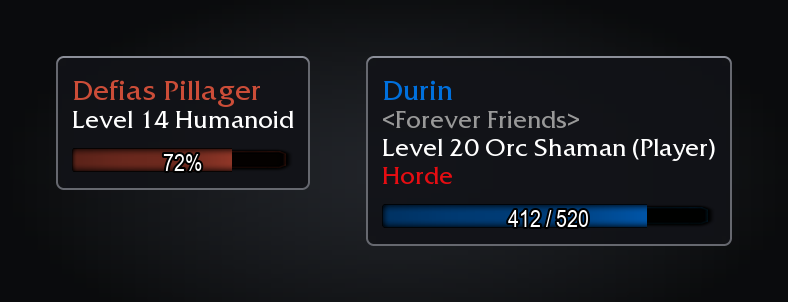
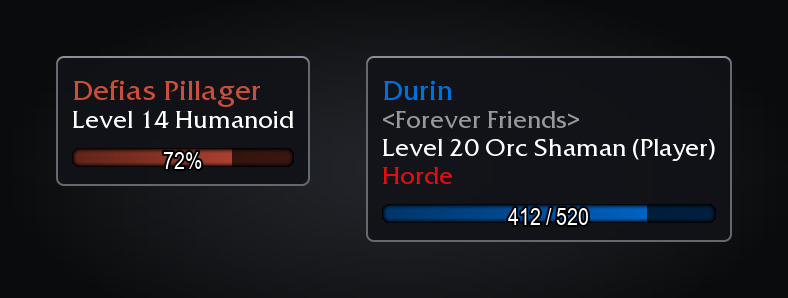
fix: draw the tooltip bars at the cooldown bar's native height (#354)
## Summary
The tooltip health and power bars squashed common-stat-bar-white and
common-stat-bar-BG into 12 and 8 high. Both bars are now 10 high and
draw UI-HUD-CoolDownManager-Bar at its native height, with the same
atlas at a darker shade as the track.

Ships as 2.2.2. Follows the owner's no-stretch rule (forever-core
WFA-27).

## Test plan
- [x] Gate locally, without the Sloppatrol step
- [x] Rendered before/after compared
- [ ] In game: `/reload` and check the bars

🤖 Generated with [Claude Code](https://claude.com/claude-code)

https://claude.ai/code/session_01UkMWrwndqHjjTAo7oE9YTP

diff --git a/tools/screenshots.py b/tools/screenshots.py
@@ -735,8 +735,8 @@ def demo(ui):
 
 
 # UI/Tooltips.lua under Modern tooltips: the nine pieces cut from media/TooltipBorderModern.tga (PIECES, in sixteenths),
-# with room under the last line for the health bar (EDGE, BOTTOM, HEIGHT, GAP, PADDING), whose track is its colour at
-# TRACK_SHADE over the client's own bar background, ColoredProgressBarTemplate's common-stat-bar-BG and white fill.
+# with room under the last line for the health bar (EDGE, BOTTOM, HEIGHT, GAP, PADDING). Its fill and track are the
+# game's cooldown bar, UI-HUD-CoolDownManager-Bar, 124x10 native and always 10 tall, the track at TRACK_SHADE.
 TIP_PIECES = {
     "TopLeftCorner": (0, 7, 0, 7),
     "TopRightCorner": (9, 16, 0, 7),
@@ -749,11 +749,10 @@ TIP_PIECES = {
     "Center": (7, 9, 7, 9),
 }
 TIP_CORNER = 7
-BAR_EDGE, BAR_BOTTOM, BAR_HEIGHT, BAR_GAP = 10, 11, 12, 10
+BAR_EDGE, BAR_BOTTOM, BAR_HEIGHT, BAR_GAP = 10, 11, 10, 10
 BAR_PADDING = BAR_BOTTOM + BAR_HEIGHT + BAR_GAP - 10
 BAR_TRACK_SHADE = 0.3
-BAR_FILL = "common-stat-bar-white"
-BAR_TRACK = "common-stat-bar-BG"
+BAR = "UI-HUD-CoolDownManager-Bar"
 BAR_TEXT = Font(ARIALN, 12, (1, 1, 1), None, outline=True)  # Number12FontOutline
 GUILD = (0.6, 0.6, 0.6)
 HORDE = (0.90, 0.05, 0.07)  # PLAYER_FACTION_COLORS[0]
@@ -791,11 +790,14 @@ def unit_tooltip(ui, lines, colour, health, text):
         c.text(TOOLTIP_PADDING, y, line.left, font, line.color)
         y += font.height + TOOLTIP_LINE_GAP
     x, w, y = BAR_EDGE, width - 2 * BAR_EDGE, height - BAR_BOTTOM - BAR_HEIGHT
-    fill = ui.atlas(BAR_FILL)
-    c.draw(ui.atlas(BAR_TRACK), x, y, w, BAR_HEIGHT, color=(*(v * BAR_TRACK_SHADE for v in colour), 1))
-    # A StatusBar crops its texture to the value rather than squeezing it.
-    shown = fill.image.crop((0, 0, max(1, round(fill.image.width * health)), fill.image.height))
-    c.draw(shown, x, y, w * health, BAR_HEIGHT, color=(*colour, 1))
+    bar = ui.atlas(BAR)
+    c.draw(bar, x, y, w, BAR_HEIGHT, color=(*(v * BAR_TRACK_SHADE for v in colour), 1))
+    # A StatusBar crops its texture to the value rather than squeezing it: draw the fill at the bar's own width, then
+    # keep the shown part.
+    full = ui.canvas(w, BAR_HEIGHT)
+    full.draw(bar, 0, 0, w, BAR_HEIGHT, color=(*colour, 1))
+    shown = full.image.crop((0, 0, max(1, round(full.image.width * health)), full.image.height))
+    c.draw(shown, x, y, w * health, BAR_HEIGHT)
     c.text(x, y, text, BAR_TEXT, justify="CENTER", width=w, box_height=BAR_HEIGHT)
     return c
 

diff --git a/CHANGELOG.md b/CHANGELOG.md
@@ -12,6 +12,9 @@ optional `### For addon authors` subsection after a version's player bullets.
 
 ## [Unreleased]
 
+## [2.2.2] - 2026-11-06
+- **The tooltip health and power bars draw the game's cooldown bar at its own height.** They no longer squash a taller progress bar into the tooltip, so the bar is the shape the game draws it at, only as wide as the tooltip makes it.
+
 ## [2.2.1] - 2026-11-06
 - **The tooltip health bar and the reagent slots use the game's current art.** The bar under a unit's tooltip now comes from the same atlas as the game's own progress bars, and the green reagent slots in the combined bag use the client's bag slot art, so neither draws the pre-Legion chrome the client still ships.
 
